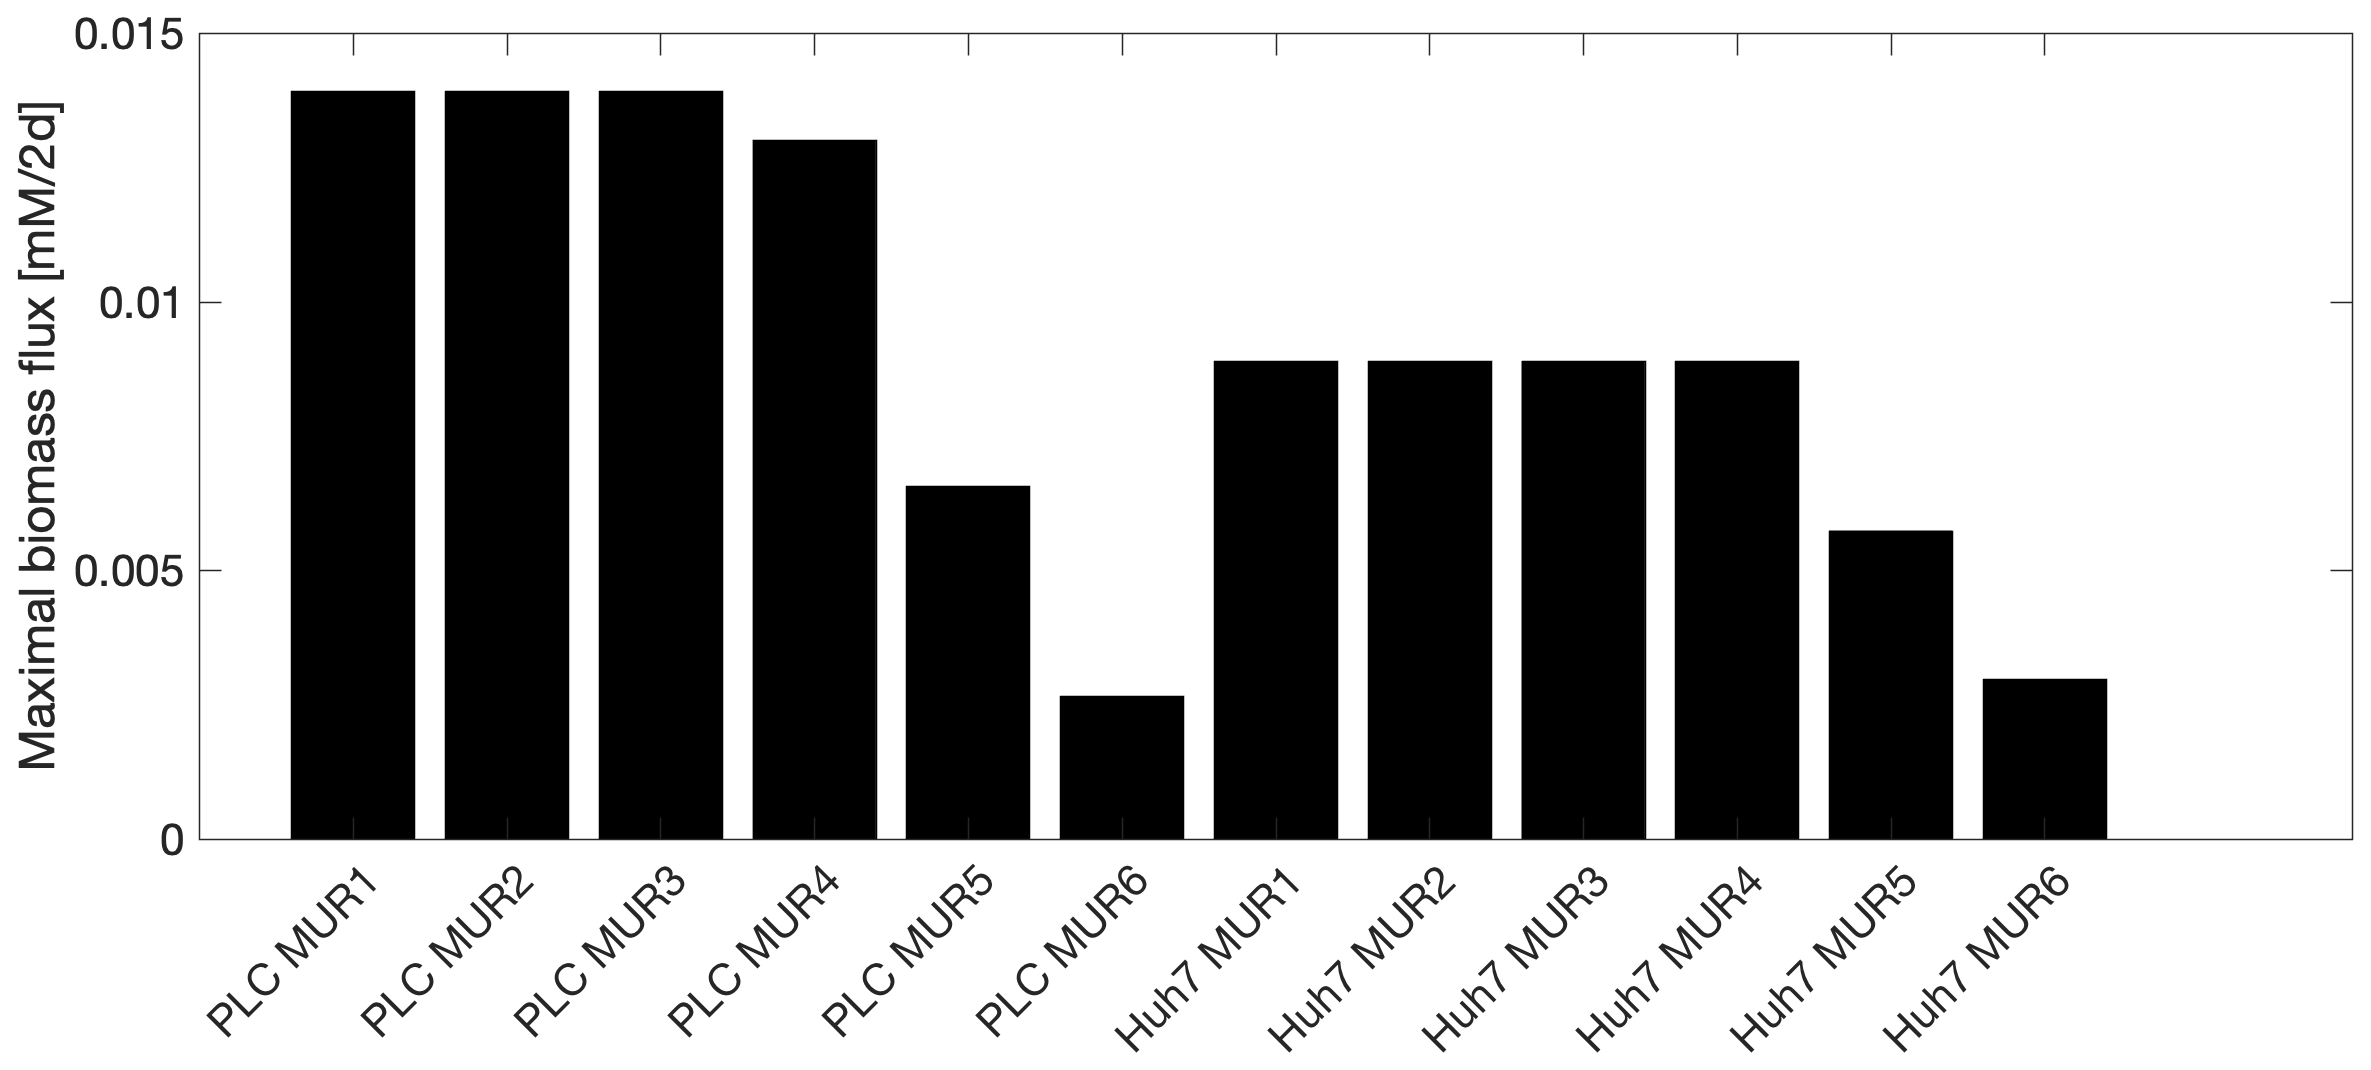
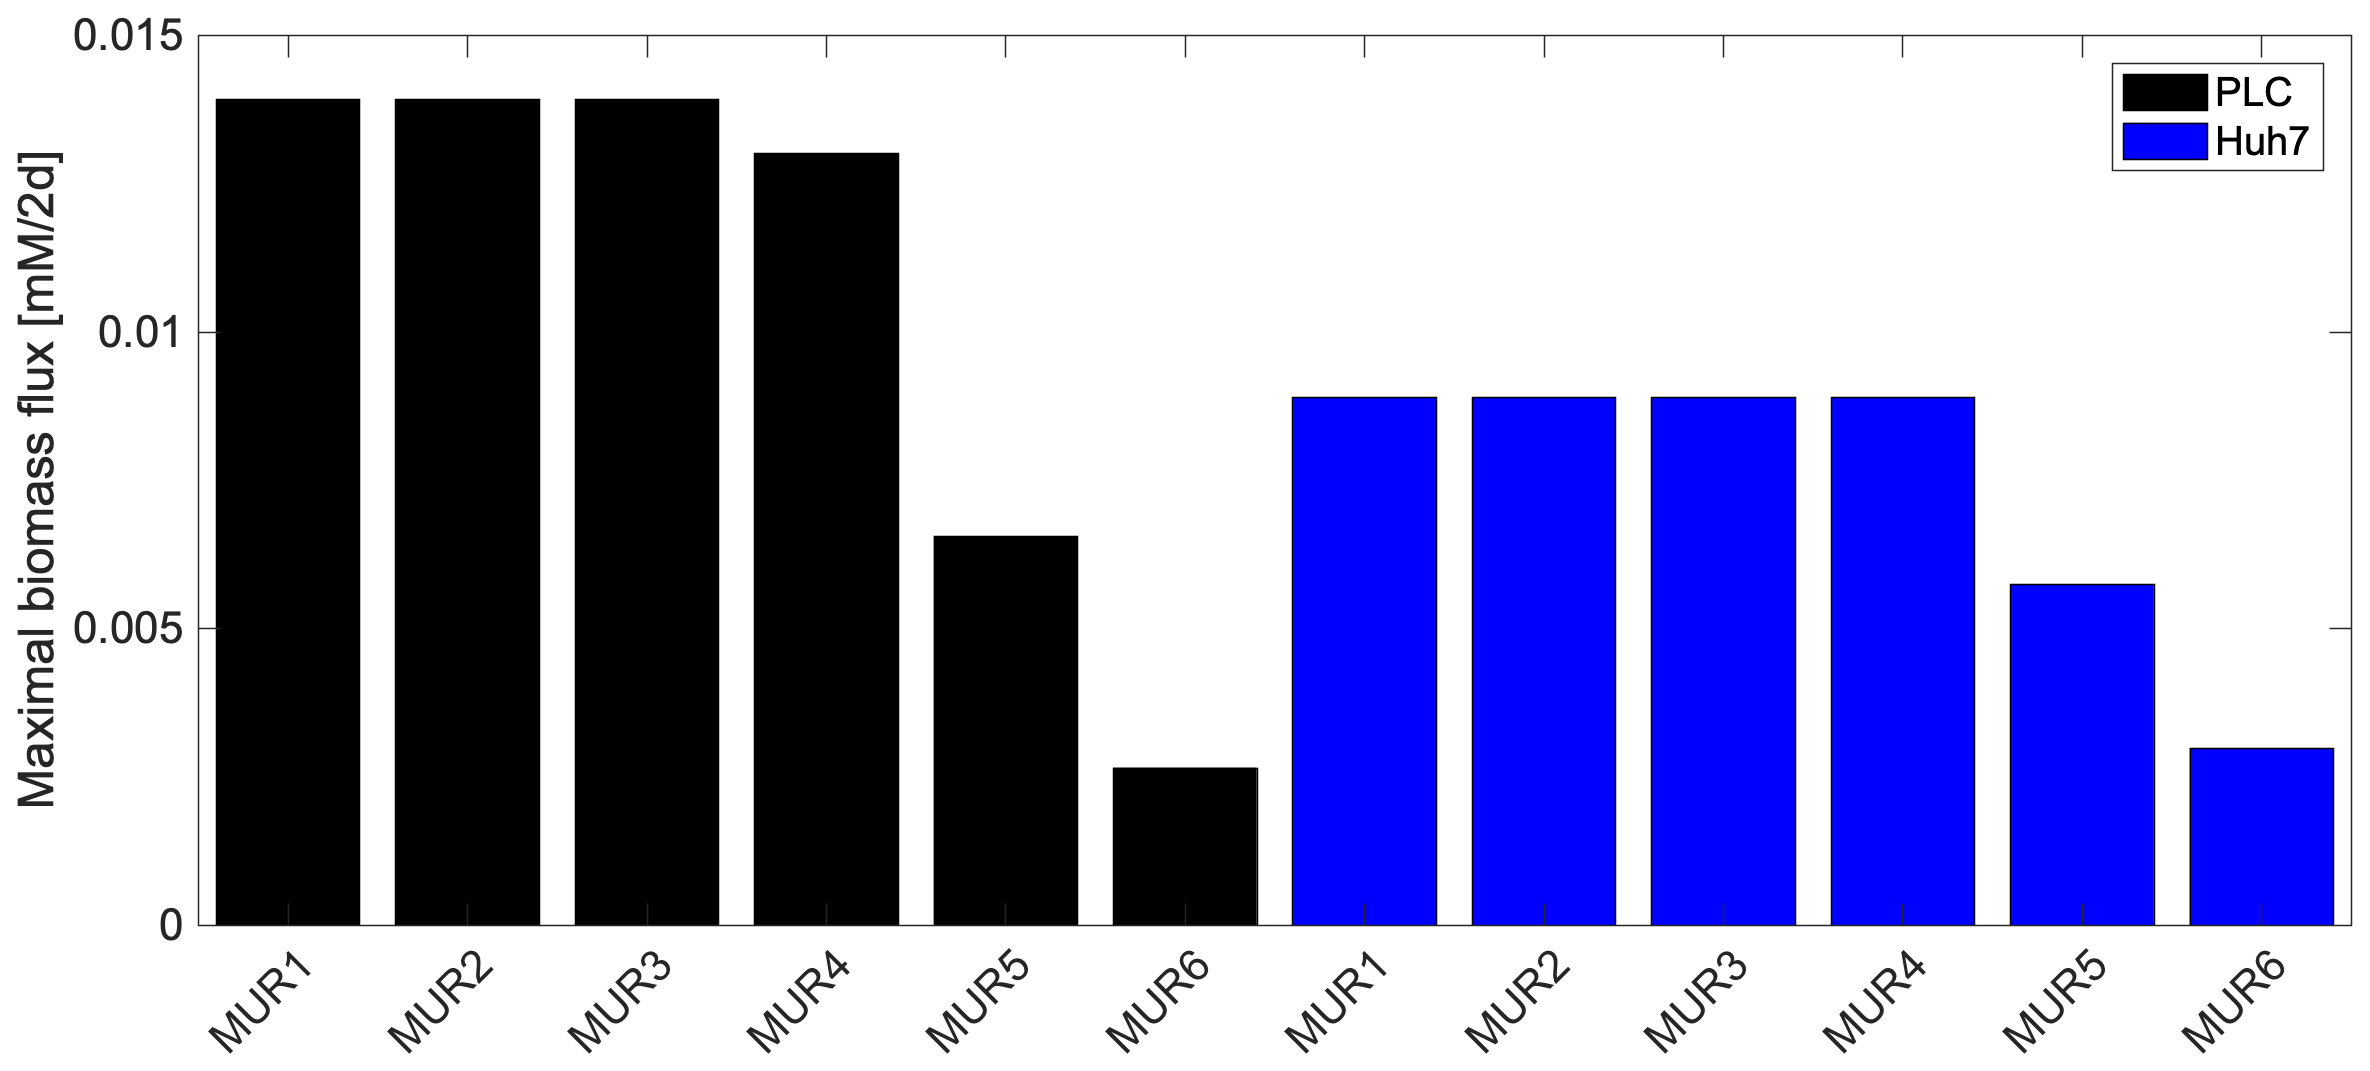
Match Matlab biomass at final alpha plot with Python doubling time plot

diff --git a/Code/calculate_RAS_and_constrain_medium_models.m b/Code/calculate_RAS_and_constrain_medium_models.m
@@ -132,14 +132,25 @@ hold off;
 fig = gcf; fig.PaperPositionMode = 'auto'; % on-screen size
 export_fig('../Figures/biomass_vs_alpha.png','-png','-r200','-p0.01')
 
+
 % biomass bar plot
 figure('pos',[10 10 1000 400],'DefaultAxesFontSize',16)
-bar(results(:,final_alpha_index),'k')
-xticklabels({'PLC MUR1','PLC MUR2','PLC MUR3','PLC MUR4','PLC MUR5','PLC MUR6',...
-                'Huh7 MUR1','Huh7 MUR2','Huh7 MUR3','Huh7 MUR4','Huh7 MUR5','Huh7 MUR6'})
+bar(1:6,results(1:6,final_alpha_index),'k');
+
+hold on
+
+bar(7:12,results(7:12,final_alpha_index),'b');
+
+xticks([1:12])
+xticklabels({'MUR1','MUR2','MUR3','MUR4','MUR5','MUR6',...
+              'MUR1','MUR2','MUR3','MUR4','MUR5','MUR6'})
 xtickangle(45)
+
 ylabel('Maximal biomass flux [mM/2d]')
 ylim([0, 0.015])
+xlim([0.5,12.5])
+
+legend('PLC','Huh7')
 export_fig('../Figures/biomass_at_final_alpha.png','-png','-r200','-p0.01')
 
 %% Compare various objectives across all models
